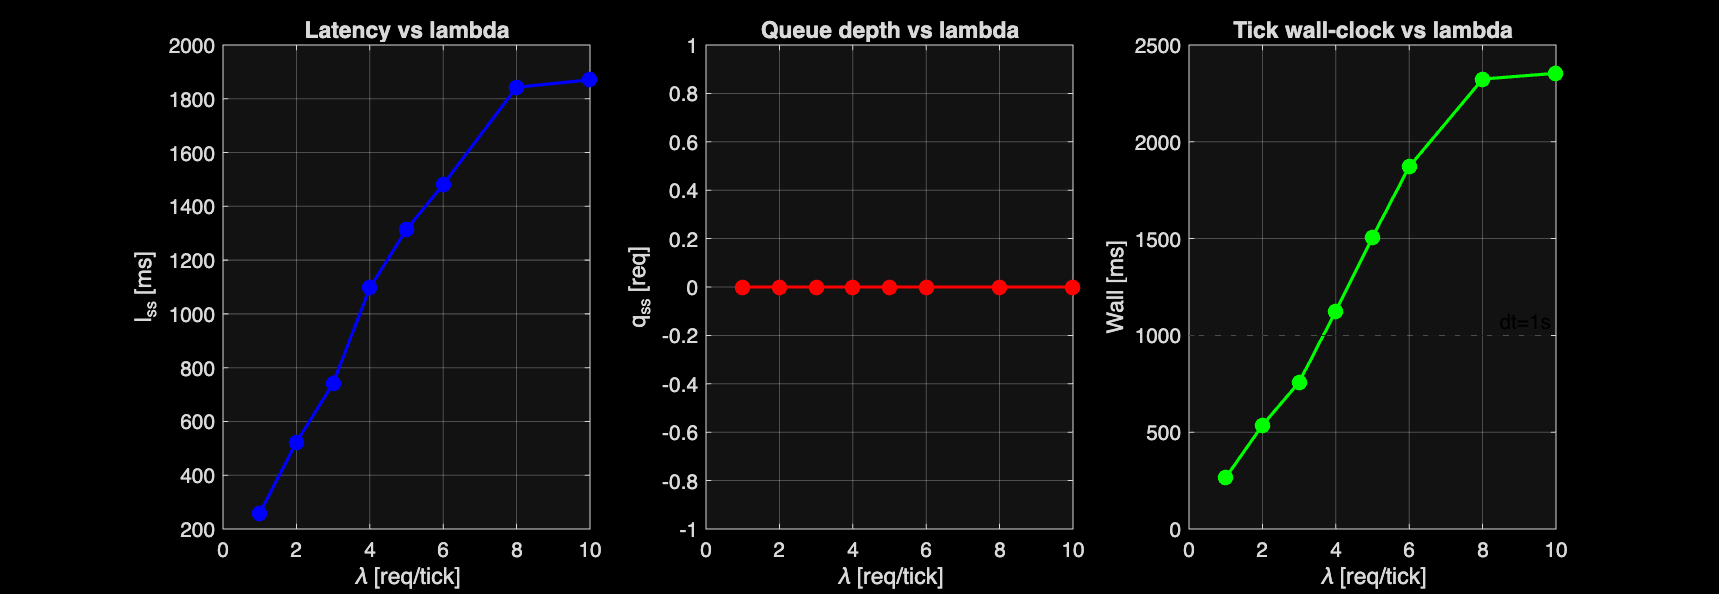
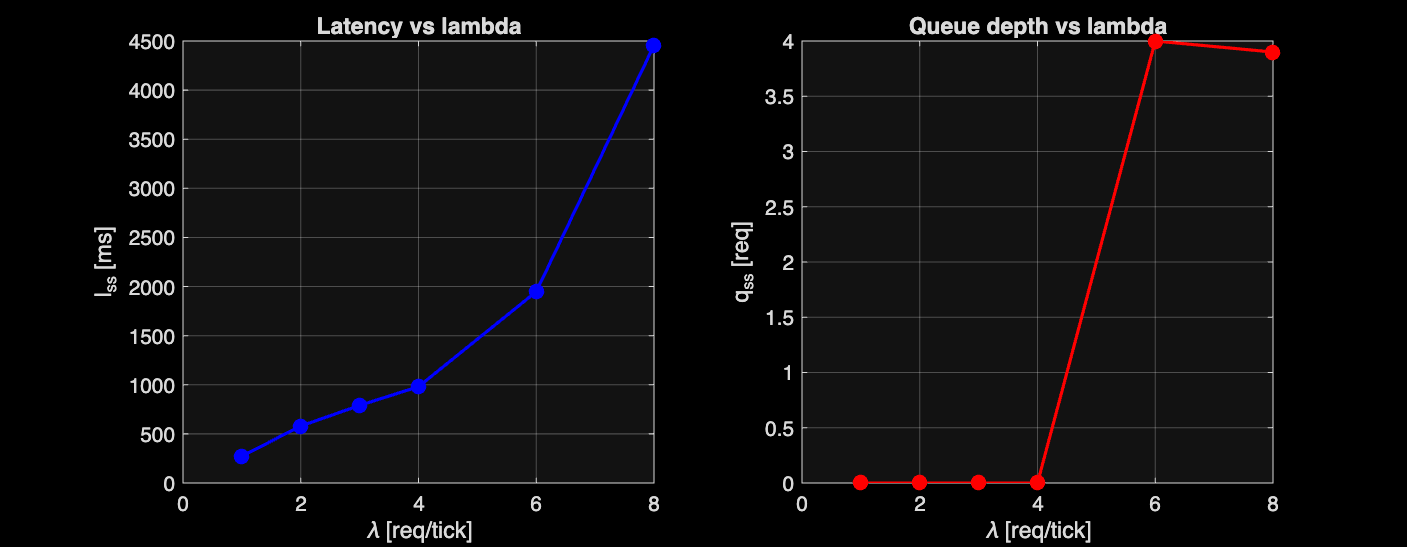
chapter_5: setup_plant.m with identified params (alpha=33.22 gamma=-1.56 beta=444.9)

diff --git a/chapter_5/src/setup_plant.m b/chapter_5/src/setup_plant.m
@@ -1,77 +1,181 @@
-%% setup_plant.m  —  Chapter 2b: Cascade Control
-% Entry point. Defines plant parameters, computes equilibrium, designs
-% the cascade controller (inner: B->q, outer: q_ref->l_p95), then runs
-% the MATLAB-only simulation.
+%% setup_plant.m  --  Chapter 5: Cascade Control on real vLLM inference
 %
-% Change 'method' to switch between 'lqr' and 'pole_placement'.
+% Entry point for Chapter 5.  Loads identified plant parameters from
+% characterise_plant.m, computes the equilibrium, and designs the cascade
+% controller.
+%
+% Run this before pressing Run in Simulink.
+%
+% Requires:
+%   identification/identified_params.mat   (run characterise_plant.m first)
+%
+% Plant model (identified from real hardware):
+%   l_e2e[k] = alpha*B[k] + gamma*B[k]^2 + beta*q[k] + l_gen
+%
+%   where  alpha, gamma  capture GPU concurrency cost (from TTFT sweep)
+%          beta          captures queueing overhead per waiting request
+%          l_gen         is generation latency (constant, ~700ms for 20 tokens)
+%          q[k]          is vllm:num_requests_waiting from /metrics
+%
+% Identified parameters (qwen3-0.6b-4bit, max_num_seqs=4, e2e_tokens=20):
+%   alpha = 33.22 ms/req
+%   gamma = -1.56 ms/req^2
+%   beta  = 444.91 ms/req   (each queued request adds ~445ms to e2e latency)
+%
+% Operating regime (from Stage 4 envelope):
+%   lambda <= 4 req/tick  -> q = 0,  latency driven by concurrency only
+%   lambda >= 6 req/tick  -> q builds to ~4,  latency jumps to ~2000ms
+%   We operate at lambda_mean = 3 (moderate load, queue-free equilibrium).
+%
+% Controller design:
+%   Same cascade architecture as Chapter 2b:
+%     Inner loop:  B -> q    (LQR / pole placement, Franklin augmented)
+%     Outer loop:  q_ref -> l_e2e  (integral-only, analytical gain)
+%   dt = 1.0s (real inference tick, not 0.1s simulation tick)
 
 clear; clc;
 addpath(fileparts(mfilename('fullpath')));
 
-% -- 1. Plant parameters ------------------------------------------------------
-perturbed.alpha = 0.1;    % ms   -- linear service-time coefficient
-perturbed.gamma = 0.8;   % ms   -- quadratic service-time coefficient
-perturbed.beta  = 2;     % ms   -- queuing latency per waiting request
-perturbed.delta = 15;    % ms   -- p95 spread coefficient
+% -------------------------------------------------------------------------
+% 1. Load identified parameters
+% -------------------------------------------------------------------------
+id_path = fullfile(fileparts(mfilename('fullpath')), ...
+    '..', 'identification', 'identified_params.mat');
 
-perturbed.dt    = 0.1;   % s    -- scheduling tick
-perturbed.B_min = 1;     %      -- batch size lower bound
-perturbed.B_max = 32*2;    %      -- batch size upper bound (VRAM)
-perturbed.q_max = 3000;    %      -- queue depth upper bound
+if ~exist(id_path, 'file')
+    error(['identified_params.mat not found.\n' ...
+           'Run chapter_5/identification/characterise_plant.m first.\n' ...
+           'Expected: %s'], id_path);
+end
 
-% -- 2. Operating conditions --------------------------------------------------
-perturbed.lambda_mean  = 5;    % req/tick -- mean arrival rate
-perturbed.L_p95_target = 100;  % ms       -- SLA target
-perturbed.L_mean_target = 25;  % ms       -- SLA target
+load(id_path, 'identified');
+fprintf('=== Loaded identified parameters (%s) ===\n', identified.model);
+fprintf('  alpha = %.4f ms/req\n',   identified.alpha);
+fprintf('  gamma = %.4f ms/req^2\n', identified.gamma);
+fprintf('  beta  = %.4f ms/req\n\n', identified.beta);
 
-% -- 3. Rolling window (measurement, used upstream of outer controller) --------
-perturbed.N_win = 60;    % samples -- l_p95 rolling window length (T_win = 6 s)
+% -------------------------------------------------------------------------
+% 2. Plant parameters
+% -------------------------------------------------------------------------
+perturbed.alpha = identified.alpha;   % 33.2222 ms/req
+perturbed.gamma = identified.gamma;   % -1.5605 ms/req^2
+perturbed.beta  = identified.beta;    % 444.9068 ms/req
 
-% -- 4. Equilibrium -----------------------------------------------------------
+% Physical bounds (from characterisation)
+perturbed.dt    = 1.0;   % s   -- real inference tick (not simulation)
+perturbed.B_min = 1;     %     -- batch size lower bound
+perturbed.B_max = 8;     %     -- max concurrent requests (tested safe cap)
+perturbed.q_max = 4;     %     -- max observable queue (= max_num_seqs)
+
+% -------------------------------------------------------------------------
+% 3. Operating conditions
+% -------------------------------------------------------------------------
+% From the Stage 4 envelope:
+%   lambda=3, B=3, q=0, l_e2e=790ms is a clean operating point.
+%   Queue is zero, no overloading, wall-clock fits within the 1s tick.
 %
-%   Queue balance:  q[k+1] = q[k]  =>  B0 = lambda_mean
+% l_gen (generation latency) = l_e2e - TTFT at B=3, q=0
+%   TTFT(B=3) = alpha*3 + gamma*9 = 99.67 - 14.04 = 85.6ms
+%   l_e2e(B=3, q=0) = 790ms (measured)
+%   l_gen ~ 790 - 86 = 704ms  (constant for 20 output tokens)
+
+perturbed.lambda_mean   = 3;    % req/tick -- moderate load, q=0 at equilibrium
+perturbed.L_mean_target = 800;  % ms       -- slightly above equilibrium latency
+
+% p95 headroom: at q_max=4, beta contribution = 444.9*4 = 1780ms
+perturbed.L_p95_target  = perturbed.L_mean_target + identified.beta * perturbed.q_max;
+fprintf('=== Operating conditions ===\n');
+fprintf('  lambda_mean    = %g req/tick\n', perturbed.lambda_mean);
+fprintf('  L_mean_target  = %.0f ms\n',     perturbed.L_mean_target);
+fprintf('  L_p95_target   = %.0f ms (target + beta*q_max)\n\n', perturbed.L_p95_target);
+
+% -------------------------------------------------------------------------
+% 4. Equilibrium
+% -------------------------------------------------------------------------
+% Queue balance:  q[k+1] = q[k]  =>  B0 = lambda_mean
+% At q0 = 0:  l_e2e(B0, 0) = alpha*B0 + gamma*B0^2 + l_gen
 %
-%   SLA met at equilibrium:
-%     q0 = ( L_p95_target - alpha*B0 - gamma*B0^2 - 1.645*delta/sqrt(B0) ) / beta
+% We set q0 = 0 since that is the natural operating point at lambda=3.
+% The outer controller will command q_ref > 0 only if l_e2e > L_mean_target.
 
-perturbed.B0 = perturbed.lambda_mean;
+perturbed.B0 = perturbed.lambda_mean;   % = 3
+perturbed.q0 = 0;                       % natural equilibrium at lambda=3
 
-% perturbed.q0 = ( perturbed.L_p95_target ...
-%                - perturbed.alpha  * perturbed.B0 ...
-%                - perturbed.gamma  * perturbed.B0^2 ...
-%                - 1.645 * perturbed.delta / sqrt(perturbed.B0) ) ...
-%                / perturbed.beta;
+% Predicted equilibrium latency (TTFT component only; l_gen is additive constant)
+l_ttft_eq = perturbed.alpha * perturbed.B0 + perturbed.gamma * perturbed.B0^2;
+fprintf('=== Equilibrium ===\n');
+fprintf('  B0           = %g req/tick\n', perturbed.B0);
+fprintf('  q0           = %g req\n',      perturbed.q0);
+fprintf('  TTFT(B0,q=0) = %.1f ms  (identified curve)\n\n', l_ttft_eq);
 
-perturbed.q0 = ( perturbed.L_mean_target ...
-               - perturbed.alpha * perturbed.B0 ...
-               - perturbed.gamma * perturbed.B0^2 ) ...
-               / perturbed.beta;
+% -------------------------------------------------------------------------
+% 5. Pole placement parameters (inner loop)
+% -------------------------------------------------------------------------
+% Inner loop dynamics: q[k+1] = q[k] - B[k] + arrivals
+% dt=1s ticks. Queue settles in ~2-3 ticks -> tau1=2s, tau2=3s is appropriate.
+perturbed.pp_tau1 = 2.0;   % s
+perturbed.pp_tau2 = 3.0;   % s
+perturbed.pp_f    = 0;     % non-oscillatory
 
-[~, L_mean_eq, L_p95_eq] = llm_plant(perturbed.q0, perturbed.B0, ...
-                                       perturbed.lambda_mean, perturbed);
-fprintf('=== Equilibrium (computed from mean-latency target) ===\n');
-fprintf('  B0      = %.4f  req/tick\n', perturbed.B0);
-fprintf('  q0      = %.4f  requests\n', perturbed.q0);
-fprintf('  L_mean  = %.2f  ms  (target = %.2f ms)\n', L_mean_eq, perturbed.L_mean_target);
-fprintf('  L_p95   = %.2f  ms  (reported only; not used for equilibrium)\n\n', L_p95_eq);
+% -------------------------------------------------------------------------
+% 6. Outer loop time constant
+% -------------------------------------------------------------------------
+% Outer loop integrates latency error, commands q_ref.
+% Must be >> inner settling time (~3s) and >> measurement lag.
+% Use 20s: conservative, avoids oscillation given large beta.
+perturbed.tau_out = 20.0;  % s
 
-% -- 5. Inner loop pole placement parameters (only used when method = 'pole_placement')
-perturbed.pp_tau1 = 0.25;   % s  -- inner pole 1 time constant
-perturbed.pp_tau2 = 0.5;    % s  -- inner pole 2 time constant
-perturbed.pp_tau  = 1.0/3;  % s  -- inner oscillatory envelope (if pp_f > 0)
-perturbed.pp_f    = 0;      % Hz -- inner damped frequency (0 = non-oscillatory)
-
-% -- 6. Outer loop time constant -----------------------------------------------
-%   Integral-only design. One parameter sets the closed-loop pole analytically:
-%     K_il = (exp(-dt/tau_out) - 1) / beta
-%   Must be >> tau_win (3 s) and >> tau_inner (~0.5 s).  10 s is a safe start.
-perturbed.tau_out = 8;   % s  -- desired outer CL time constant
-
-% -- 7. Design cascade controller ---------------------------------------------
-% method     = 'lqr';
-method   = 'pole_placement';
-
+% -------------------------------------------------------------------------
+% 7. Design cascade controller
+% -------------------------------------------------------------------------
+method     = 'pole_placement';
 controller = design_controller(perturbed, method);
 
-% -- 8. Run MATLAB simulation -------------------------------------------------
-% run_simulation(perturbed, controller);
+% -------------------------------------------------------------------------
+% 8. Outer loop gain sanity check
+% -------------------------------------------------------------------------
+K_il = controller.outer_c.K_il;
+z_cl = controller.outer_c.z_cl;
+fprintf('=== Outer loop gain check ===\n');
+fprintf('  K_il = %.8f\n', K_il);
+fprintf('  z_cl = %.6f  (target %.6f from tau_out=%.0fs)\n', ...
+    z_cl, exp(-perturbed.dt/perturbed.tau_out), perturbed.tau_out);
+fprintf('  Stability: |z_cl| = %.4f < 1: %s\n\n', abs(z_cl), mat2str(abs(z_cl)<1));
+
+% Each unit of q_ref changes latency by beta=444.9ms.
+% So a K_il of this magnitude means the integrator must accumulate ~1/K_il
+% ticks of error before commanding q_ref = 1.
+fprintf('  Interpretation:\n');
+fprintf('    A sustained latency error of 1ms for %.0f ticks commands q_ref += 1 req\n', ...
+    round(1/abs(K_il)));
+fprintf('    (beta=%.0fms/req, so q_ref=1 drives l_e2e up by %.0fms)\n\n', ...
+    perturbed.beta, perturbed.beta);
+
+% -------------------------------------------------------------------------
+% 9. Summary table
+% -------------------------------------------------------------------------
+fprintf('╔══════════════════════════════════════════════════════════════╗\n');
+fprintf('║  Chapter 5 -- Cascade Controller  (%s)\n', method);
+fprintf('╠══════════════════════════════════════════════════════════════╣\n');
+fprintf('║  Plant (identified)\n');
+fprintf('║    alpha = %8.4f  ms/req\n',   perturbed.alpha);
+fprintf('║    gamma = %8.4f  ms/req^2\n', perturbed.gamma);
+fprintf('║    beta  = %8.4f  ms/req\n',   perturbed.beta);
+fprintf('╠══════════════════════════════════════════════════════════════╣\n');
+fprintf('║  Operating point\n');
+fprintf('║    lambda = %g req/tick    B0 = %g    q0 = %g\n', ...
+    perturbed.lambda_mean, perturbed.B0, perturbed.q0);
+fprintf('║    L_target = %.0f ms    L_p95_target = %.0f ms\n', ...
+    perturbed.L_mean_target, perturbed.L_p95_target);
+fprintf('╠══════════════════════════════════════════════════════════════╣\n');
+fprintf('║  Inner loop (B -> q)\n');
+fprintf('║    K_q = %.4f    K_i = %.4f\n', ...
+    controller.inner_c.K_q, controller.inner_c.K_i);
+fprintf('║    CL poles: [%.4f, %.4f]\n', ...
+    controller.inner_c.poles_cl(1), controller.inner_c.poles_cl(2));
+fprintf('╠══════════════════════════════════════════════════════════════╣\n');
+fprintf('║  Outer loop (q_ref -> l_e2e)\n');
+fprintf('║    K_il = %.8f\n', controller.outer_c.K_il);
+fprintf('║    z_cl = %.6f    tau_out = %.0f s\n', ...
+    controller.outer_c.z_cl, controller.outer_c.tau_out);
+fprintf('╚══════════════════════════════════════════════════════════════╝\n');